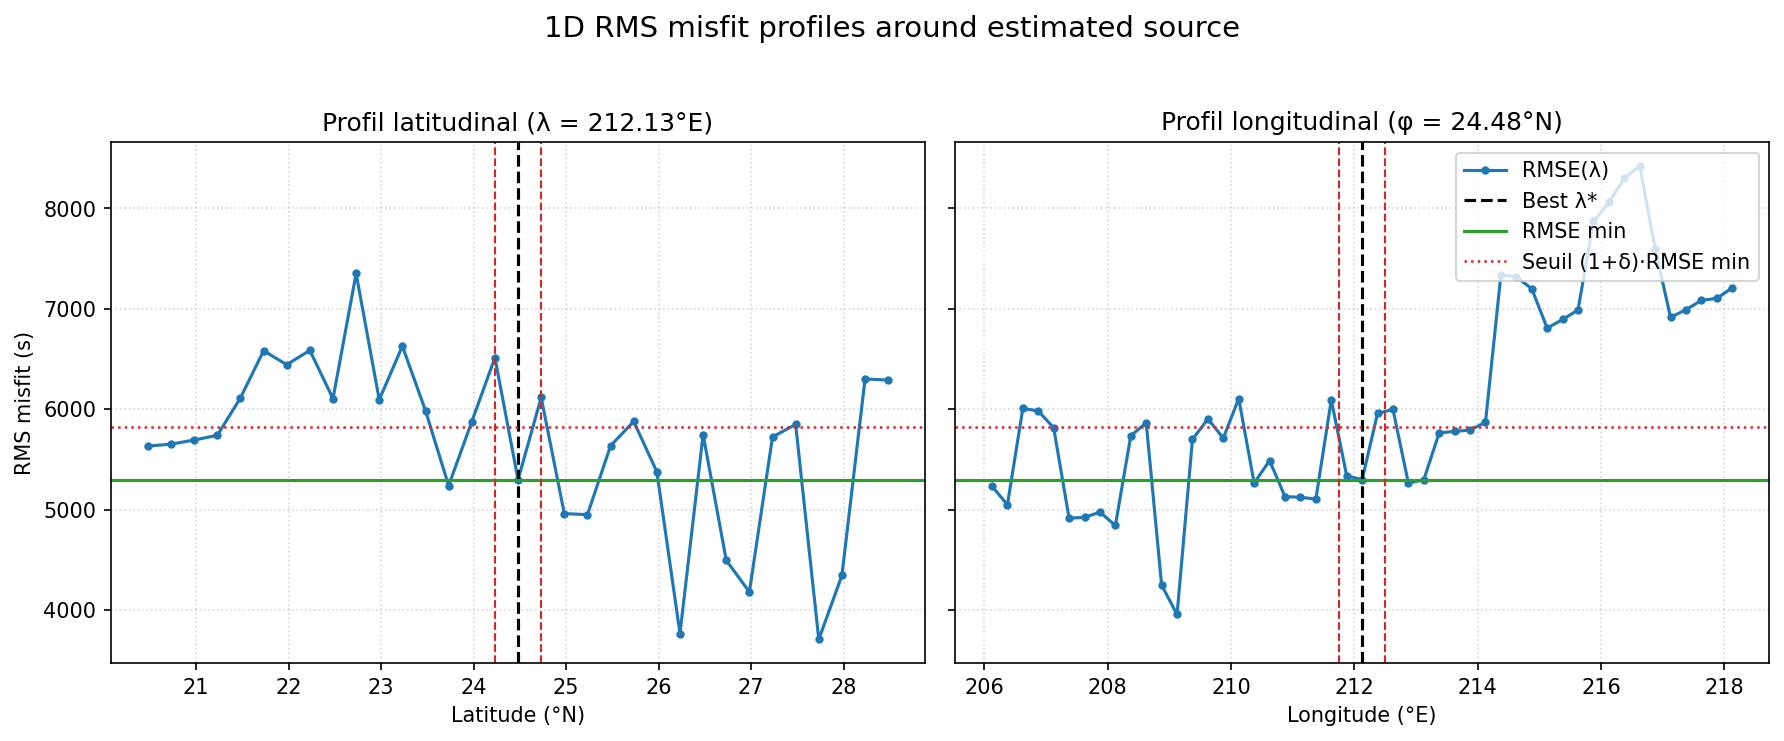
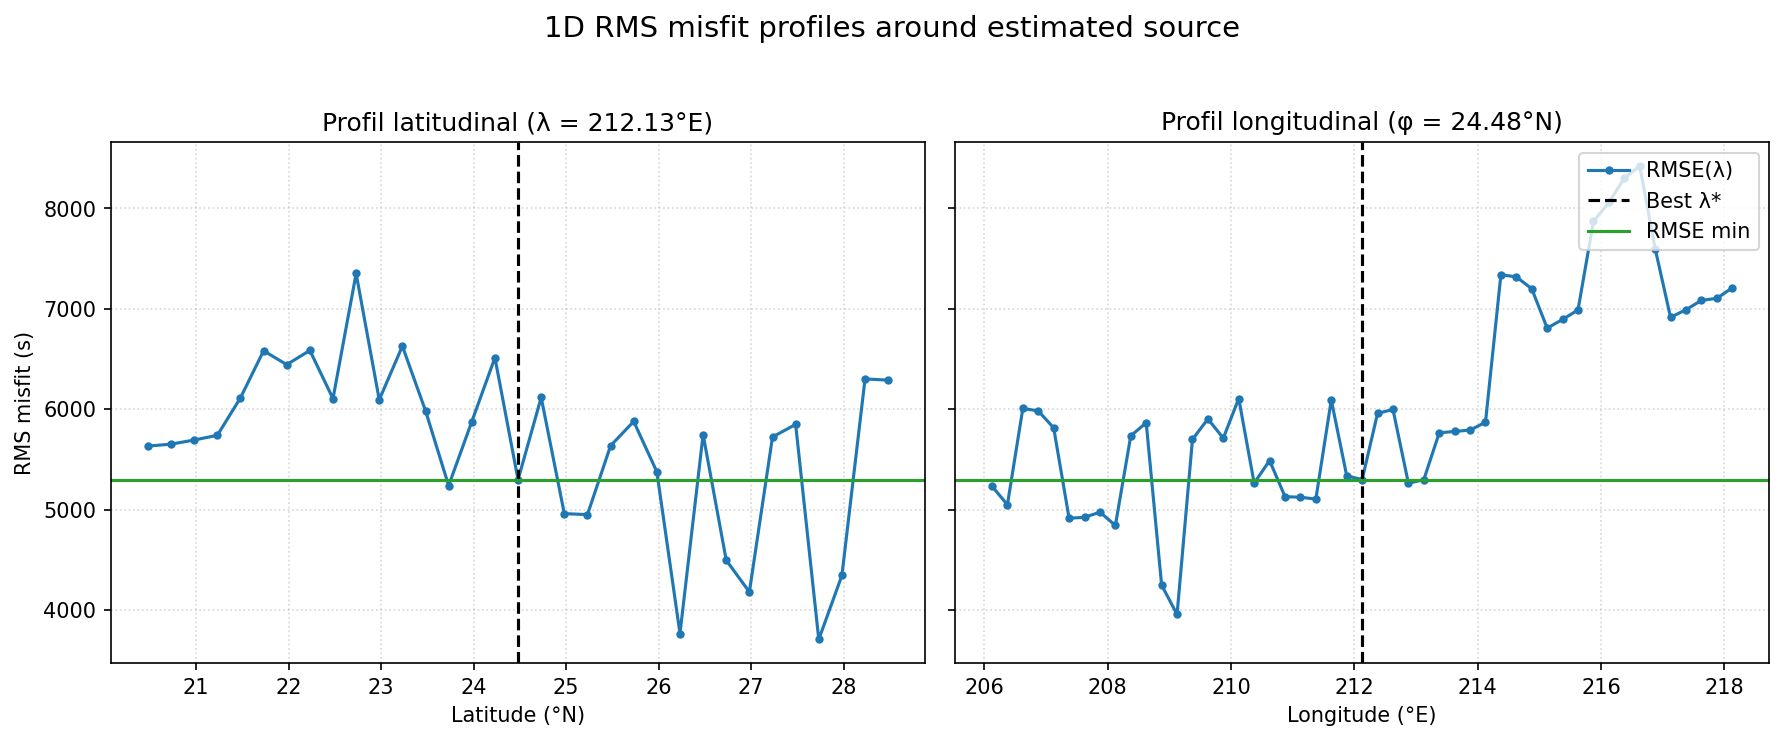
feat(plot): add facultative misfit vs iterations plot

Changed region(s): [[0.8016, 0.2173, 0.9865, 0.4035], [0.2775, 0.5587, 0.3083, 0.5897]]

diff --git a/tsunami/absolute_inversion.py b/tsunami/absolute_inversion.py
@@ -28,7 +28,9 @@ Interface :
     - 'residuals_rel' : résidus relatifs station par station,
     - 'T_model' : temps de trajet modélisés (s),
     - 'dt_obs' / 'dt_model' : temps relatifs observés / modélisés,
-    - 'ref_index' : index de la station utilisée comme référence.
+    - 'ref_index' : index de la station utilisée comme référence,
+    - 'history' : liste des misfits par itération,
+    - 'valid' : nombre de stations marines valides.
 """
 
 import numpy as np
@@ -53,51 +55,7 @@ def absolute_inversion(
     Inversion de la position de la source à partir de temps *relatifs*
     normalisés par une station de référence.
 
-    Paramètres
-    ----------
-    stations : array-like (Ns, 2)
-        Latitude et longitude de chaque station (en degrés).
-    t_obs_s : array-like (Ns,)
-        Temps d'arrivée observés en secondes (absolus quelconques).
-    depth_fn : callable
-        Fonction bathymétrique depth(lat, lon) -> profondeur (m, négative en mer).
-    phi_min, phi_max, lam_min, lam_max : float
-        Bornes de la boîte de recherche initiale (en degrés).
-    ref_index : int
-        Index de la station de référence (celle dont Δt_obs = 0).
-        Par exemple l'index de Los Angeles dans le tableau des stations.
-    n : int
-        Nombre de points de grille par axe à chaque itération.
-    precision_deg : float
-        On arrête le raffinement quand la boîte de recherche est plus petite
-        que cette valeur en latitude ET longitude.
-    max_iter : int
-        Nombre maximal d'itérations de raffinements successifs.
-    min_valid_stations : int
-        Misfit mis à +inf si moins de ce nombre de stations marines valides.
-    robust : bool
-        Si True, applique un clipping robuste sur les résidus (type Huber léger).
-    verbose : bool
-        Affiche un résumé à chaque itération.
-
-    Retour
-    ------
-    best_lat, best_lon : float
-        Position estimée de la source (°).
-    t0_hat : float
-        Estimation du temps d'origine t0* (en secondes) a posteriori.
-    stats : dict
-        Dictionnaire de diagnostics, contenant notamment :
-            - 'rmse_rel'      : RMSE sur les temps relatifs (s),
-            - 'rmse_abs'      : RMSE sur les temps absolus (s),
-            - 'residuals_rel' : (Ns,) résidus relatifs,
-            - 'residuals_abs' : (Ns,) résidus absolus,
-            - 'T_model'       : (Ns,) temps de trajet modélisés pour la
-                                meilleure source (s),
-            - 'dt_obs'        : (Ns,) temps relatifs observés,
-            - 'dt_model'      : (Ns,) temps relatifs modélisés,
-            - 'ref_index'     : index de la station de référence,
-            - 'valid'         : nombre de stations marines valides.
+    Voir docstring en tête de fichier pour les détails.
     """
     stations = np.asarray(stations, dtype=float)
     t_obs_s  = np.asarray(t_obs_s, dtype=float)
@@ -112,11 +70,19 @@ def absolute_inversion(
     # Δt_obs[i] = t_obs[i] - t_obs[ref]
     dt_obs = t_obs_s - t_obs_s[ref_index]
 
-    best = dict(lat=np.nan, lon=np.nan, misfit=np.inf)
+    # "best" ne contient que ce qui sert à la recherche spatiale
+    best = dict(lat=np.nan, lon=np.nan, rmse_rel=np.inf, valid=0)
     tries = 0
 
+    # Historique des itérations pour tracer RMSE vs iteration
+    history = []
+
     # --- boucle de raffinement de la grille ---
-    while (phi_max - phi_min) > precision_deg and (lam_max - lam_min) > precision_deg and tries < max_iter:
+    while (
+        (phi_max - phi_min) > precision_deg
+        and (lam_max - lam_min) > precision_deg
+        and tries < max_iter
+    ):
         # 1. Grille de candidats
         lats = np.linspace(phi_min, phi_max, n)
         lons = np.linspace(lam_min, lam_max, n)
@@ -142,7 +108,6 @@ def absolute_inversion(
 
         # 3. Misfit en temps relatifs par rapport à la station ref_index
         #   ΔT_model[p, i] = Tmod[p, i] - Tmod[p, ref_index]
-        #   ΔT_model[p, ref_index] = 0 par construction.
         # On ne garde que les stations i pour lesquelles les deux trajets (src->i, src->ref)
         # sont marins (Tmod finite).
         model_ok = np.isfinite(Tmod)
@@ -158,12 +123,10 @@ def absolute_inversion(
         resid = dt_obs_mat - dt_model
         resid[~valid] = np.nan
 
-        # Option robuste : clipping simple des outliers station par station
+        # Option robuste : clipping simple des outliers
         if robust:
-            # MAD (median absolute deviation) par candidat
-            mad = np.nanmedian(np.abs(resid), axis=1)
-            scale = np.maximum(mad, 1.0)  # évite division par zéro
-            # Normalisation + clipping à ±3σ, puis re-mise à l'échelle
+            mad = np.nanmedian(np.abs(resid), axis=1)     # (Np,)
+            scale = np.maximum(mad, 1.0)                  # évite division par 0
             resid = np.clip(resid / scale[:, None], -3.0, 3.0) * scale[:, None]
 
         # Misfit = RMS des résidus relatifs (en secondes)
@@ -174,21 +137,39 @@ def absolute_inversion(
         rmse = np.where(valid_counts >= min_valid_stations, rmse, np.inf)
 
         # 4. Sélection du meilleur candidat de cette grille
+        if not np.any(np.isfinite(rmse)):
+            if verbose:
+                print(f"[Iter {tries+1}] Aucun candidat valide (rmse=inf partout), arrêt.")
+            break
+
         idx_best = int(np.nanargmin(rmse))
         cand = dict(
             lat=float(grid_lat.flat[idx_best]),
             lon=float(grid_lon.flat[idx_best]),
-            misfit=float(rmse[idx_best]),
+            rmse_rel=float(rmse[idx_best]),
             valid=int(valid_counts[idx_best]),
+            iter=int(tries + 1),
         )
 
-        if cand["misfit"] < best["misfit"]:
+        # Mise à jour du meilleur global
+        if cand["rmse_rel"] < best["rmse_rel"]:
             best.update(cand)
+
+        # Ajout à l'historique
+        history.append({
+            "iter": cand["iter"],
+            "lat":  cand["lat"],
+            "lon":  cand["lon"],
+            "rmse_rel": cand["rmse_rel"],
+            # pas de rmse_abs à ce stade (dépend de t0*), on peut laisser NaN
+            "rmse_abs": np.nan,
+            "valid":    cand["valid"],
+        })
 
         if verbose:
             print(
                 f"[Iter {tries+1}] best=({cand['lat']:.2f}, {cand['lon']:.2f})  "
-                f"RMSE_rel={cand['misfit']:.2f}s  stations={cand['valid']}/{Ns}"
+                f"RMSE_rel={cand['rmse_rel']:.2f}s  stations={cand['valid']}/{Ns}"
             )
 
         # 5. Raffinement autour du meilleur point global courant
@@ -198,6 +179,7 @@ def absolute_inversion(
         lam_max = best["lon"] + dlon
         tries += 1
 
+    # Position finale de la source
     best_lat = best["lat"]
     best_lon = best["lon"]
 
@@ -232,23 +214,30 @@ def absolute_inversion(
     residuals_abs[~mask_abs] = np.nan
     rmse_abs = float(np.sqrt(np.nanmean(residuals_abs**2))) if np.any(mask_abs) else np.nan
 
-    # Résidus relatifs finaux (à titre de diag) au point optimal
+    # Résidus relatifs finaux au point optimal
     dt_model_best = T_best - T_best[ref_index]
     residuals_rel = dt_obs - dt_model_best
     mask_rel = np.isfinite(dt_model_best) & np.isfinite(dt_obs)
     residuals_rel[~mask_rel] = np.nan
-    rmse_rel_final = float(np.sqrt(np.nanmean(residuals_rel[mask_rel]**2))) if np.any(mask_rel) else np.nan
+    rmse_rel_final = float(
+        np.sqrt(np.nanmean(residuals_rel[mask_rel]**2))
+    ) if np.any(mask_rel) else np.nan
 
-    stats = {
-        "rmse_rel": rmse_rel_final,
-        "rmse_abs": rmse_abs,
-        "residuals_rel": residuals_rel,
-        "residuals_abs": residuals_abs,
-        "T_model": T_best,
-        "dt_obs": dt_obs,
-        "dt_model": dt_model_best,
-        "ref_index": int(ref_index),
-        "valid": int(np.sum(mask_abs)),
-    }
+    # On met à jour la dernière entrée de history avec le RMSE absolu final
+    if history:
+        history[-1]["rmse_abs"] = rmse_abs
+
+    stats = dict(
+        rmse_rel= rmse_rel_final,
+        rmse_abs= rmse_abs,
+        residuals_rel= residuals_rel,
+        residuals_abs= residuals_abs,
+        T_model= T_best,
+        dt_obs= dt_obs,
+        dt_model= dt_model_best,
+        ref_index= int(ref_index),
+        valid= int(np.sum(mask_abs)),
+        history= history,
+    )
 
     return best_lat, best_lon, t0_hat, stats

diff --git a/plotting/misfit_history.py b/plotting/misfit_history.py
@@ -1,0 +1,76 @@
+# plotting/misfit_history.py
+import numpy as np
+import matplotlib.pyplot as plt
+
+
+def plot_misfit_history(
+    history,
+    metric="rmse_rel",
+    title="RMSE vs iteration",
+    savepath=None,
+    show=True,
+):
+    """
+    Plot l'évolution du misfit (RMSE) au cours des itérations d'inversion.
+
+    Parameters
+    ----------
+    history : list of dict
+        Liste de dictionnaires produits par l'inversion, avec au moins
+        les clés "iter" et `metric` (par défaut "rmse_rel").
+        Exemple d'entrée :
+            {"iter": 1, "lat": ..., "lon": ..., "rmse_rel": 2800.0, "valid": 11}
+    metric : str
+        Clé du misfit à tracer ("rmse_rel" ou "rmse_abs").
+    title : str
+        Titre de la figure.
+    savepath : str or None
+        Si non None, chemin de sauvegarde du PNG.
+    show : bool
+        Si True, appelle plt.show().
+
+    Returns
+    -------
+    fig, ax : matplotlib Figure and Axes
+    """
+    if not history:
+        raise ValueError("plot_misfit_history: empty history list.")
+
+    # Extraction des itérations et du misfit
+    iters = np.array([h.get("iter", i + 1) for i, h in enumerate(history)], dtype=int)
+    values = np.array([h[metric] for h in history], dtype=float)
+
+    fig, ax = plt.subplots(figsize=(6, 4), dpi=120)
+
+    ax.plot(iters, values, marker="o", linestyle="-")
+    ax.set_xlabel("Iteration")
+    ylabel = "RMS misfit (s)"
+    if metric == "rmse_rel":
+        ylabel = "Relative RMS misfit (s)"
+    elif metric == "rmse_abs":
+        ylabel = "Absolute RMS misfit (s)"
+    ax.set_ylabel(ylabel)
+
+    ax.set_title(title)
+    ax.grid(True, linestyle=":", alpha=0.6)
+
+    # Mettre en évidence le minimum
+    idx_min = int(np.argmin(values))
+    it_min = iters[idx_min]
+    v_min = values[idx_min]
+    ax.scatter([it_min], [v_min], color="red", zorder=5)
+    ax.annotate(
+        f"min = {v_min:.1f} s\n(iter {it_min})",
+        xy=(it_min, v_min),
+        xytext=(it_min + 0.2, v_min * 1.05),
+        arrowprops=dict(arrowstyle="->", lw=0.8),
+        fontsize=8,
+    )
+
+    fig.tight_layout()
+    if savepath is not None:
+        fig.savefig(savepath, bbox_inches="tight", dpi=150)
+    if show:
+        plt.show()
+
+    return fig, ax

diff --git a/scripts/run_inversion.py b/scripts/run_inversion.py
@@ -27,6 +27,7 @@ from plotting.uncertainty import (
     plot_misfit_profiles
 )
 from plotting.table_arrival_times import build_residual_table, print_latex_table
+from plotting.misfit_history import plot_misfit_history
 
 
 # --------------------------------------------------------------
@@ -209,6 +210,7 @@ def run_pipeline(
     if "valid" in stats:
         print(f"Valid stations        : {stats['valid']} / {Ns}")
 
+    """
     # --- 4bis) Estimation de l'incertitude spatiale ---
     print("→ Estimating spatial uncertainty around source...")
     unc = estimate_spatial_uncertainty(
@@ -233,6 +235,19 @@ def run_pipeline(
     print(f"Lon uncertainty   : Δλ ≈ {dlon_deg:.2f}°")
     print(f"Spatial radius    : ≈ {radius_km:.0f} km (effective)")
     print(f"Local RMSE min ≈ {unc['rmse_min']:.1f} s")
+    """
+
+    # --- 4ter) Courbe d'évolution du misfit par itération ---
+    if "history" in stats and stats["history"]:
+        print("→ Plotting misfit history...")
+        plot_misfit_history(
+            stats["history"],
+            metric="rmse_rel",
+            title="Relative RMS misfit vs iteration",
+            savepath="outputs/wo_bowen/misfit_history.png",
+            show=True,
+        )
+
 
     print("→ Computing 1D misfit profiles (lat/lon)...")
     profiles = compute_misfit_profiles(
@@ -280,7 +295,8 @@ def run_pipeline(
             "lat": best_lat,
             "lon": best_lon,
             "label": "Estimated source",
-            "radius_km": radius_km if np.isfinite(radius_km) else 20.0,
+            #"radius_km": radius_km if np.isfinite(radius_km) else 20.0,
+            "radius_km": 20.0
         }
 
         plot_world_map(

diff --git a/plotting/uncertainty.py b/plotting/uncertainty.py
@@ -372,11 +372,13 @@ def plot_misfit_profiles(
     ax_lat.plot(lat_axis, rmse_lat, "-o", ms=3, label="RMSE(φ)")
     ax_lat.axvline(best_lat, color="k", linestyle="--", lw=1.5, label="Best φ*")
     ax_lat.axhline(rmse_min, color="tab:green", lw=1.5, label="RMSE min")
-    ax_lat.axhline(threshold, color="tab:red", lw=1.2, linestyle=":", label="Seuil (1+δ)·RMSE min")
+    #ax_lat.axhline(threshold, color="tab:red", lw=1.2, linestyle=":", label="Seuil (1+δ)·RMSE min")
 
+    """
     # Lignes verticales pour les Δφ
     ax_lat.axvline(best_lat - dlat_deg, color="tab:red", linestyle="--", lw=1)
     ax_lat.axvline(best_lat + dlat_deg, color="tab:red", linestyle="--", lw=1)
+    """
 
     ax_lat.set_xlabel("Latitude (°N)")
     ax_lat.set_ylabel("RMS misfit (s)")
@@ -387,11 +389,13 @@ def plot_misfit_profiles(
     ax_lon.plot(lon_axis, rmse_lon, "-o", ms=3, label="RMSE(λ)")
     ax_lon.axvline(best_lon, color="k", linestyle="--", lw=1.5, label="Best λ*")
     ax_lon.axhline(rmse_min, color="tab:green", lw=1.5, label="RMSE min")
-    ax_lon.axhline(threshold, color="tab:red", lw=1.2, linestyle=":", label="Seuil (1+δ)·RMSE min")
+    #ax_lon.axhline(threshold, color="tab:red", lw=1.2, linestyle=":", label="Seuil (1+δ)·RMSE min")
 
+    """
     # Lignes verticales pour les Δλ
     ax_lon.axvline(best_lon - dlon_deg, color="tab:red", linestyle="--", lw=1)
     ax_lon.axvline(best_lon + dlon_deg, color="tab:red", linestyle="--", lw=1)
+    """
 
     ax_lon.set_xlabel("Longitude (°E)")
     ax_lon.set_title("Profil longitudinal (φ = {:.2f}°N)".format(best_lat))
